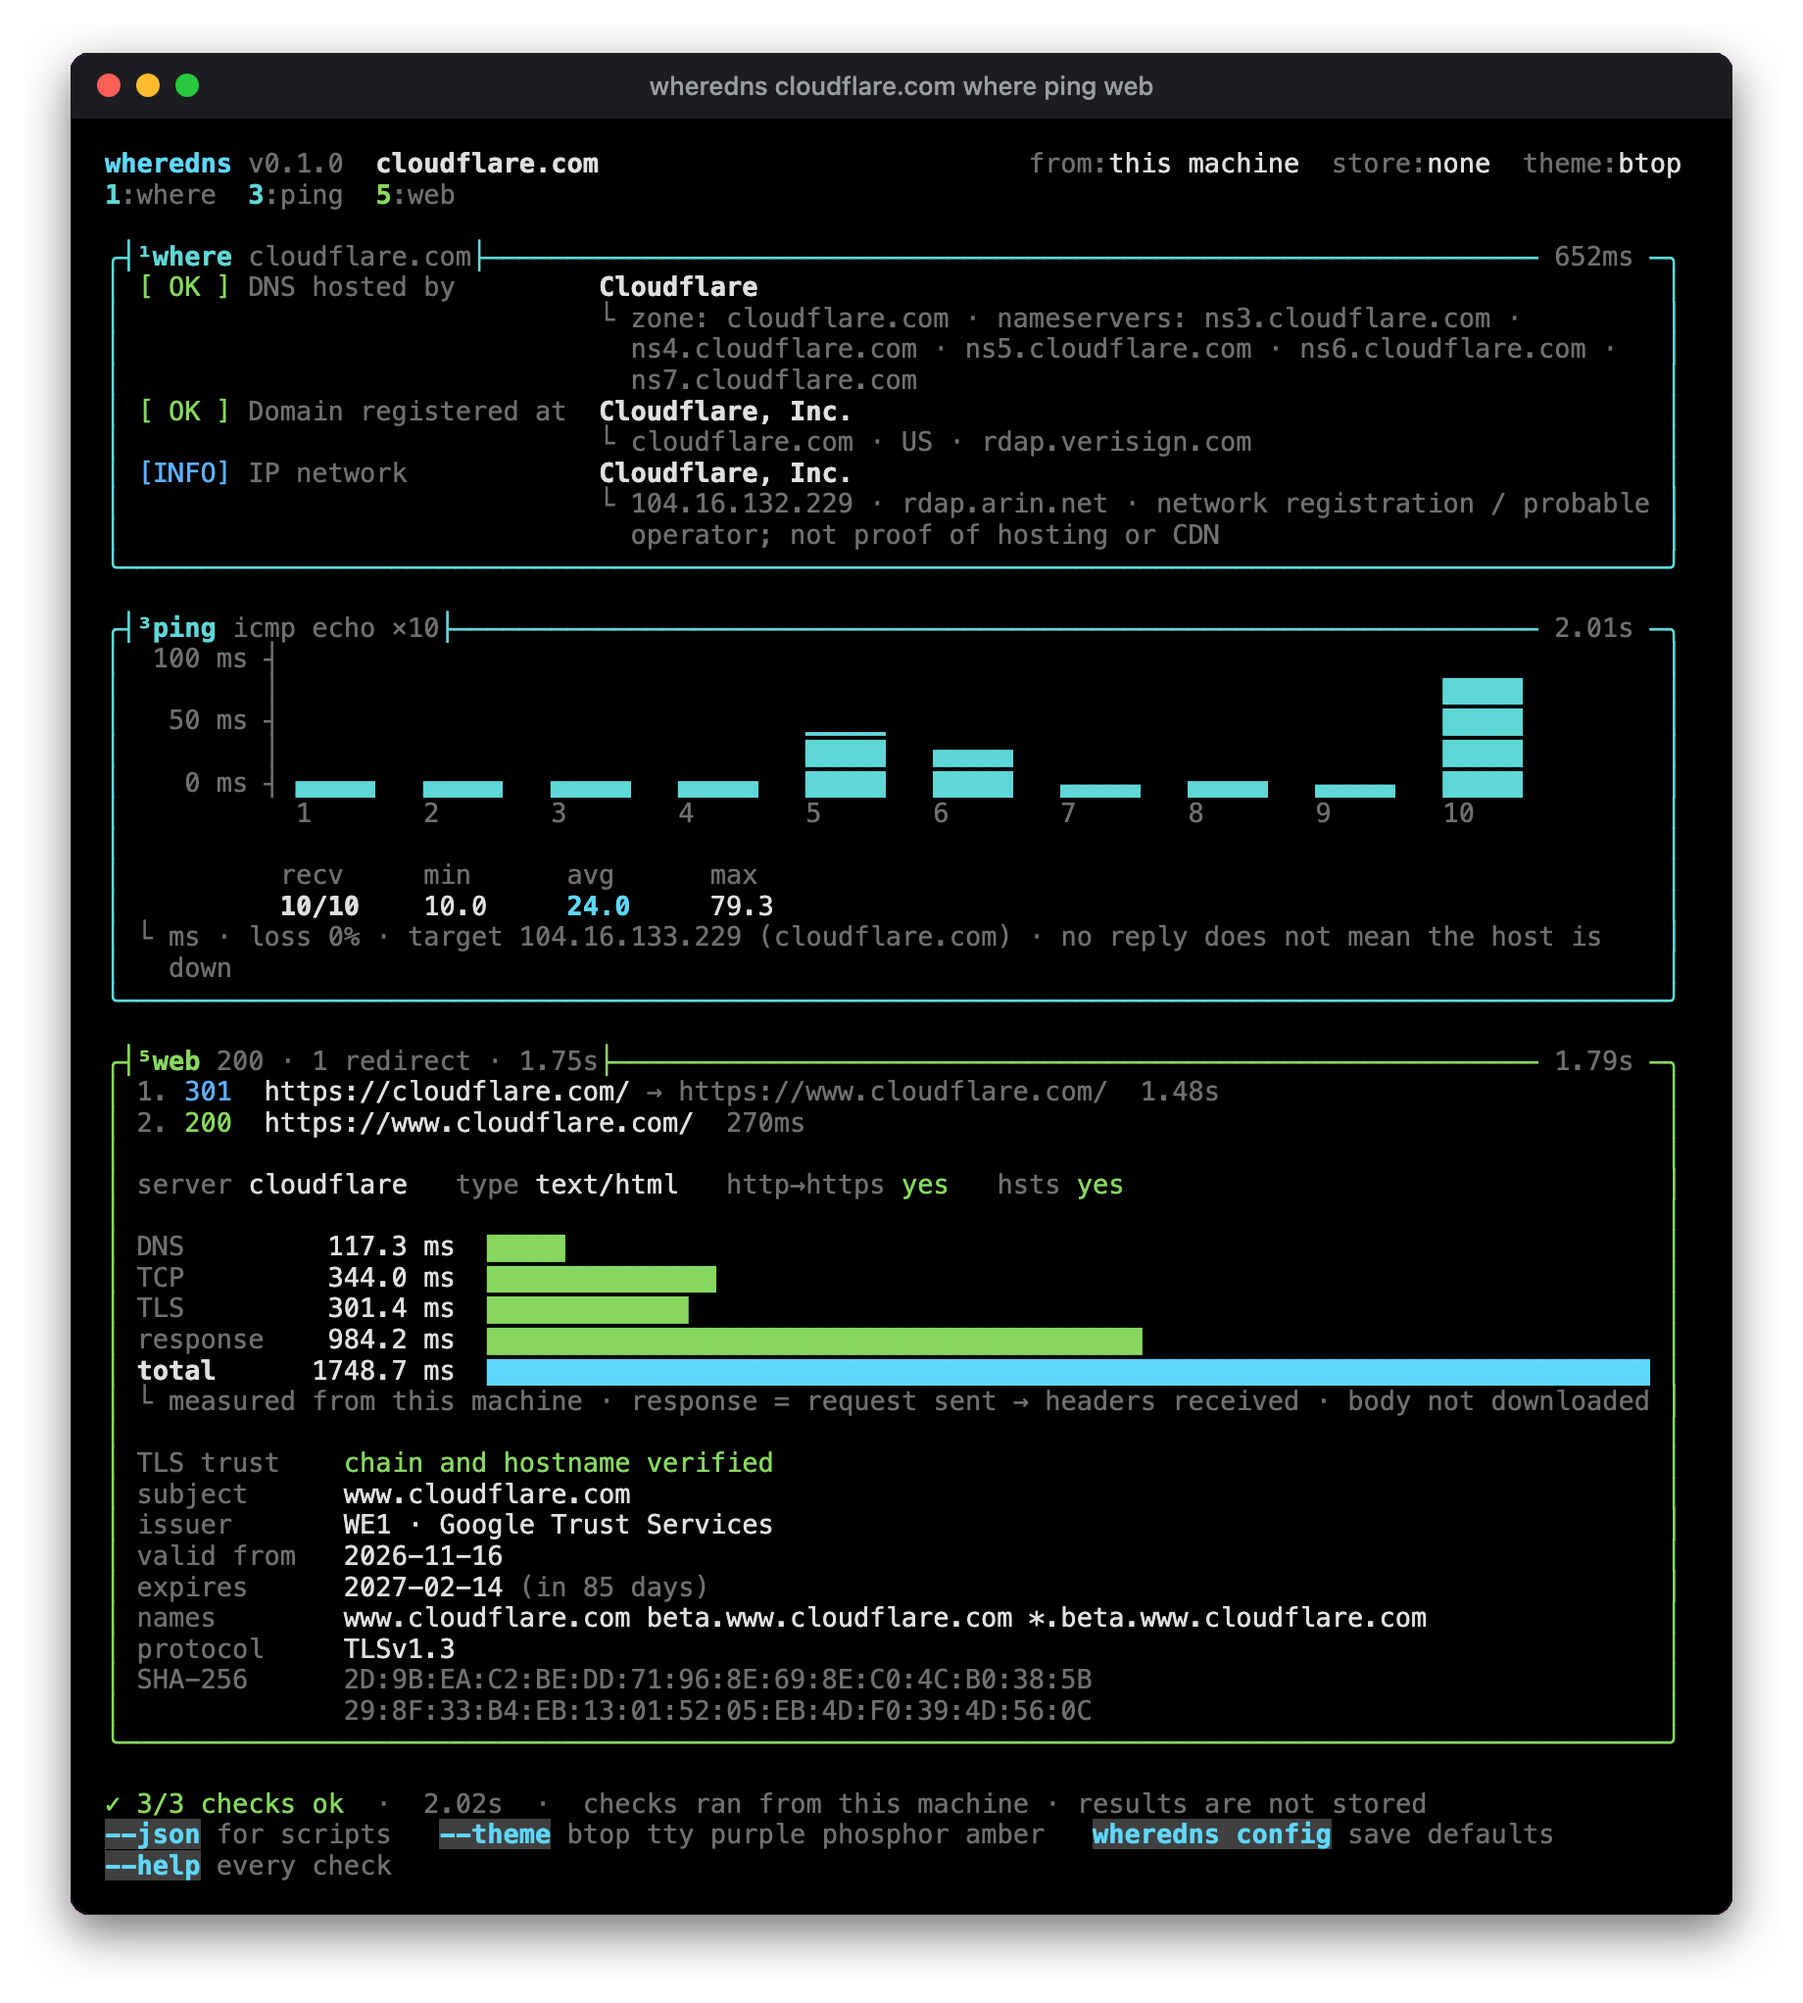
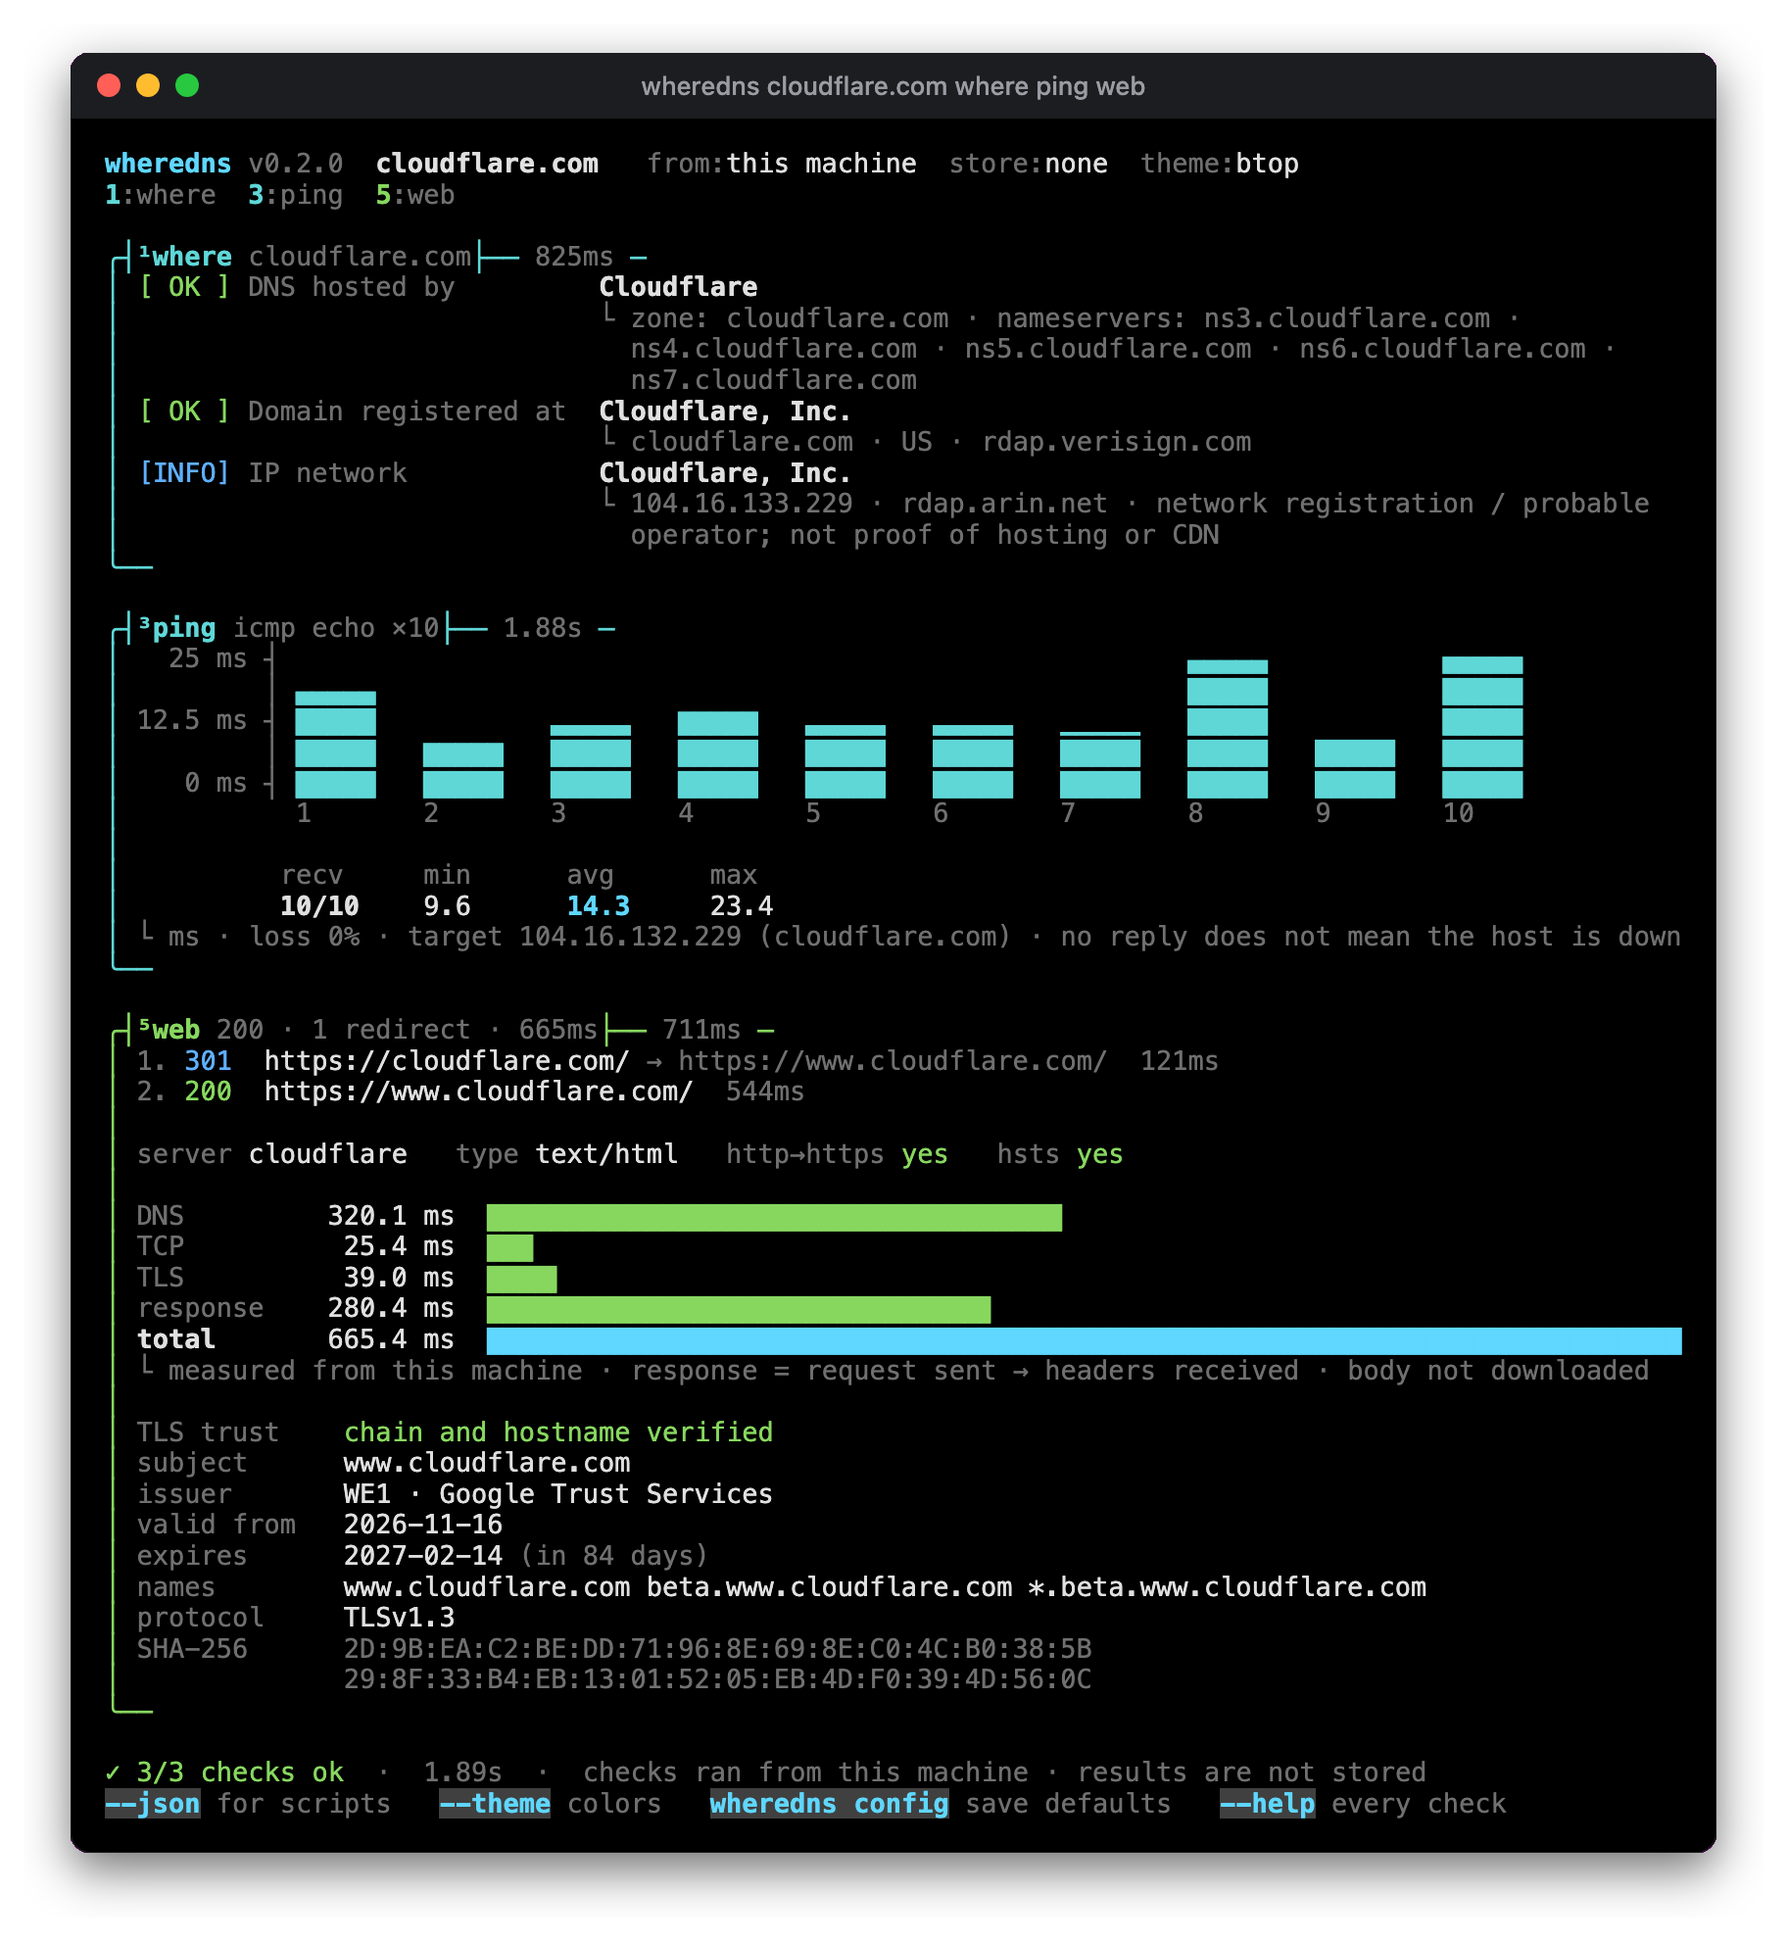
Release 0.2.0
- Version 0.2.0
- Shorter hint line (--theme colors) that fits in 100 columns
- Screenshots regenerated with the open panels and terminal background
- Screenshot renderer drops erase-line codes and only uses a theme
  background for the window when the run painted one
- Test counts updated (84 cases)

diff --git a/scripts/screenshots/render.py b/scripts/screenshots/render.py
@@ -4,10 +4,14 @@ import re, sys, html
 src, out, title = sys.argv[1], sys.argv[2], sys.argv[3]
 maxlines = int(sys.argv[4]) if len(sys.argv) > 4 else 10**9
 data = open(src, 'rb').read().decode('utf-8', 'replace').replace('\r\n', '\n').replace('\r', '')
+# Drop cursor and erase sequences (e.g. erase-line); only colors matter here.
+data = re.sub(r'\x1b\[[0-9;?]*[A-La-ln-z]', '', data)
 lines = data.split('\n')
 while lines and not re.sub(r'\x1b\[[0-9;]*m', '', lines[-1]).strip(): lines.pop()
 lines = lines[:maxlines]
-bg_default = None
+from collections import Counter
+bg_cover = Counter()
+chars = 0
 def parse(line):
     st = {'fg': None, 'bg': None, 'b': False, 'd': False, 'i': False, 'u': False}
     spans = []
@@ -43,10 +47,14 @@ for ln in lines:
         if st['d']: css.append('opacity:.6')
         if st['i']: css.append('font-style:italic')
         if st['u']: css.append('text-decoration:underline')
-        if st['bg'] and not bg_default: bg_default = st['bg']
+        chars += len(txt.strip())
+        if st['bg']: bg_cover[st['bg']] += len(txt)
         row.append('<span style="%s">%s</span>' % (';'.join(css), html.escape(txt)))
     body.append(''.join(row) or ' ')
-bg = bg_default or '#000'
+# Window color: the theme background when the run painted it (most of the
+# text), otherwise black like a default terminal.
+top = bg_cover.most_common(1)
+bg = top[0][0] if top and top[0][1] > chars / 2 else '#000'
 page = f'''<!doctype html><html><head><meta charset="utf-8"><style>
 html,body{{margin:0;background:#ff00ff}}
 .wrap{{padding:0;display:inline-block}}

diff --git a/src/display.rs b/src/display.rs
@@ -1036,7 +1036,7 @@ impl Renderer {
         }
         let keys: Line = [
             ("--json", "for scripts"),
-            ("--theme", "btop tty purple phosphor amber"),
+            ("--theme", "colors"),
             ("wheredns config", "save defaults"),
             ("--help", "every check"),
         ]

diff --git a/README.md b/README.md
@@ -6,7 +6,7 @@
   <a href="https://github.com/Shroomate/wheredns-cli/actions/workflows/ci.yml"><img src="https://github.com/Shroomate/wheredns-cli/actions/workflows/ci.yml/badge.svg" alt="CI"></a>
   <a href="https://github.com/Shroomate/wheredns-cli/releases/latest"><img src="https://img.shields.io/github/v/release/Shroomate/wheredns-cli?color=5fd7ff&label=release" alt="Latest release"></a>
   <img src="https://img.shields.io/badge/platforms-macOS%20%C2%B7%20Linux%20%C2%B7%20Windows-87d75f" alt="macOS, Linux, Windows">
-  <a href="docs/TESTING.md"><img src="https://img.shields.io/badge/tests-78%20offline%20cases-d7af5f" alt="78 offline test cases"></a>
+  <a href="docs/TESTING.md"><img src="https://img.shields.io/badge/tests-84%20offline%20cases-d7af5f" alt="84 offline test cases"></a>
   <a href="LICENSE"><img src="https://img.shields.io/github/license/Shroomate/wheredns-cli?color=af87d7" alt="MIT license"></a>
 </p>
 
@@ -197,7 +197,7 @@ wheredns example.com email --json | jq '.results[0].data.findings[] | {name, kin
 
 ## Testing
 
-78 test cases, all offline, run in CI on Linux, Windows and macOS (ARM64 and
+84 test cases, all offline, run in CI on Linux, Windows and macOS (ARM64 and
 Intel). DNS and HTTP behavior is tested against loopback fixtures, so results
 never depend on live internet data. The full list is in
 [docs/TESTING.md](docs/TESTING.md).

diff --git a/docs/TESTING.md b/docs/TESTING.md
@@ -21,12 +21,12 @@ python3 tests/dns_eligibility.py         # which DNS answers count as evidence
 
 | Suite | Cases | What it covers |
 |---|---:|---|
-| Unit (`src/`) | 15 | DNS wire parsing and hostile replies, header parsing, URL normalization, address policy, ping output on each platform, provider attribution, TLS error text, settings validation |
+| Unit (`src/`) | 21 | DNS wire parsing and hostile replies, header parsing, URL normalization, address policy, ping output on each platform, provider attribution, TLS error text, settings validation, theme escape output, panel width and layout |
 | CLI contract (`tests/cli.rs`) | 7 | `--help`/`--version`, usage errors, JSON schema, redirect evidence on HTTP failure, NXDOMAIN parent-zone lookup, NODATA labelling, terminal DNS layout |
 | Scenarios (`tests/scenarios.rs`) | 14 | End-to-end runs of the binary, listed below |
 | Loopback regressions (`tests/loopback_regressions.py`) | 12 | REFUSED, SERVFAIL, truncated TCP, malformed PTR, unrelated owners, nonzero ping, invalid and oversized headers |
 | DNS eligibility (`tests/dns_eligibility.py`) | 30 | Which answers (by rcode, class and owner) count as evidence for each check |
-| **Total** | **78** | |
+| **Total** | **84** | |
 
 ### Scenarios
 
